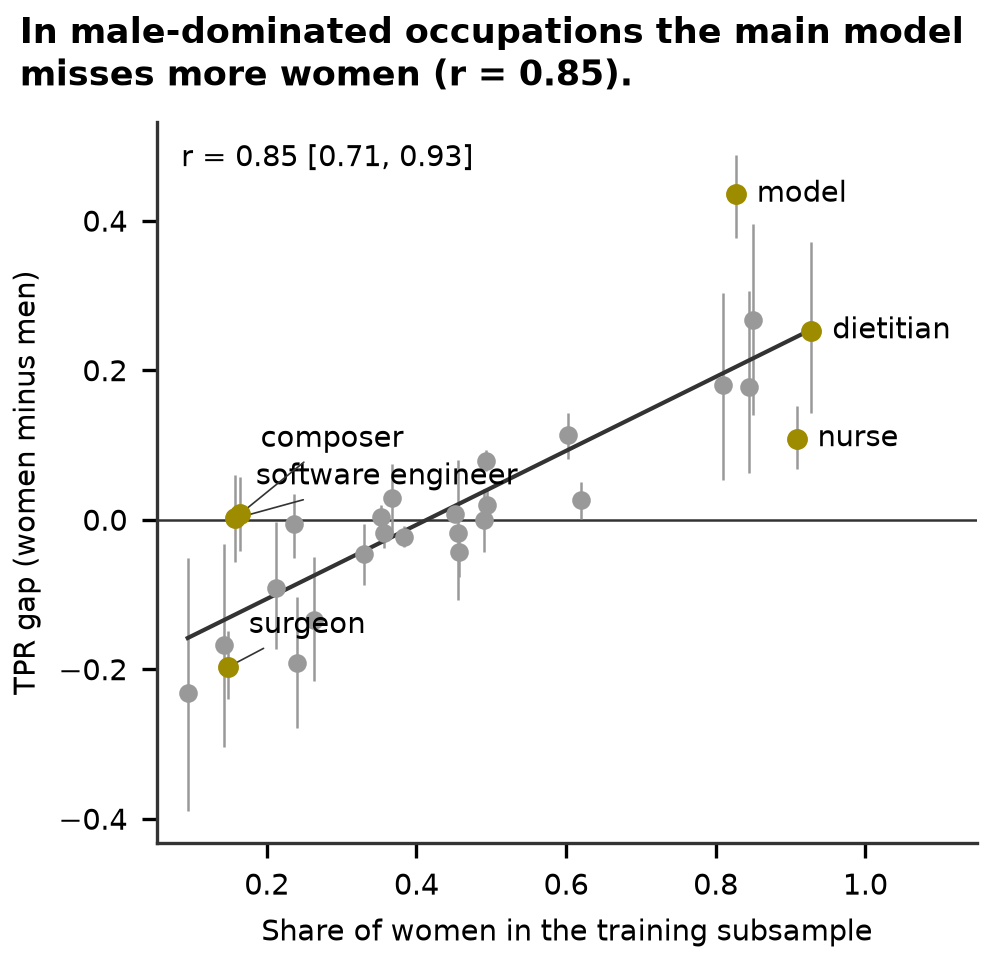
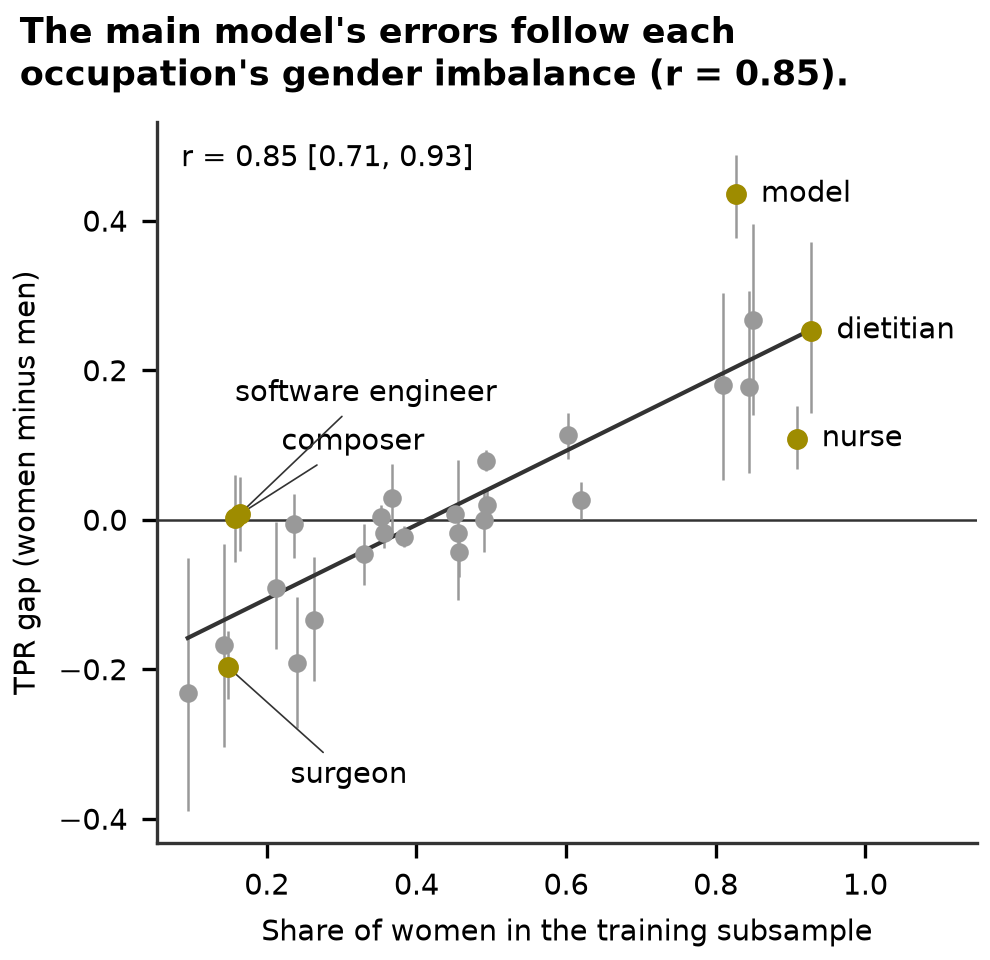
feat: F1 labels go to the nearest clear spot, away from the fitted line, error bars, dots and each other; regenerate F1 and its deuteranopia check

diff --git a/scripts/figure_f1.py b/scripts/figure_f1.py
@@ -3,6 +3,7 @@
 import json
 from pathlib import Path
 
+import matplotlib.text
 import numpy as np
 
 from hiring_bias_xai import plotting
@@ -10,46 +11,93 @@ from hiring_bias_xai.config import RESULTS_DIR
 
 HEIGHT_INCHES = 3.2
 DARK = "#333333"
-LABEL_DX_PT = 5
-LABEL_GAP_PT = 9
-MALE_RAISE_PT = 10
+LABEL_RADII_PT = (6, 12, 20, 30, 42, 56)
+LEADER_FROM_PT = 9
+DISTANCE_COST = 0.05
+DOT_COST, DOT_PAD_PX, LINE_PAD_PX = 50, 4, 2
+BAR_COST, FIT_COST, ZERO_COST = 10, 40, 5
+TAKEN_COST = OUTSIDE_COST = 1000
 
 
 def _read(results_dir: Path, name: str):
     return json.loads((results_dir / name).read_text())
 
 
-def _label(fig, ax, points: dict, sides: dict) -> None:
-    """Label the showcase occupations to the right of their dots, with no two labels overlapping.
+def _inside(box, points, pad=0.0) -> int:
+    """How many of the (n, 2) pixel points lie inside the box (x0, y0, x1, y1), grown by `pad`."""
+    x, y = points[:, 0], points[:, 1]
+    return int(
+        ((x > box[0] - pad) & (x < box[2] + pad) & (y > box[1] - pad) & (y < box[3] + pad)).sum()
+    )
 
-    Male-dominated labels start above their dots, clear of the zero line and the grey dots near
-    it. Within a side, labels are pushed up until they are `LABEL_GAP_PT` apart; a label that is
-    not level with its dot gets a leader line.
+
+def _overlap(a, b) -> bool:
+    return a[0] < b[2] and b[0] < a[2] and a[1] < b[3] and b[1] < a[3]
+
+
+def _label(fig, ax, points: dict, sides: dict, obstacles: dict) -> None:
+    """Label each showcase occupation at the nearest clear spot around its dot.
+
+    Each label is tried at several distances and directions from its dot. The spot with the least
+    overlap with dots, error bars, the fitted line, the zero line, earlier labels and the axes
+    edge wins; ties go to the nearest. A label away from its dot gets a leader line.
+    `obstacles` maps "dots" to an (n, 2) array and "bars", "fit" and "zero" to lists of (n, 2)
+    arrays sampled along them, all in data coordinates.
     """
-    fig.canvas.draw()  # fixes the axes position so data units can be converted to points
-    points_per_pixel = 72 / fig.dpi
-    placed = {}
-    for side in ("male_dominated", "female_dominated"):
-        names = sorted((n for n in sides if sides[n] == side), key=lambda n: points[n][1])
-        label_y = -np.inf
-        for name in names:
-            dot_y = ax.transData.transform(points[name])[1] * points_per_pixel
-            label_y = max(
-                dot_y + (MALE_RAISE_PT if side == "male_dominated" else 0), label_y + LABEL_GAP_PT
-            )
-            placed[name] = label_y - dot_y
-    for name, raise_pt in placed.items():
-        ax.annotate(
+    fig.canvas.draw()  # fixes the axes position and gives the text renderer
+    renderer = fig.canvas.get_renderer()
+    pixels_per_point = fig.dpi / 72
+    to_px = ax.transData.transform
+    dots = to_px(obstacles["dots"])
+    lines = [
+        (cost, to_px(line))
+        for kind, cost in (("bars", BAR_COST), ("fit", FIT_COST), ("zero", ZERO_COST))
+        for line in obstacles[kind]
+    ]
+    axes = ax.get_window_extent(renderer)
+    taken, offsets = [], {}
+    for name in (n for n in points if n in sides):
+        text = ax.text(0, 0, name.replace("_", " "))
+        extent = matplotlib.text.Text.get_window_extent(text, renderer)
+        text.remove()
+        dot = to_px([points[name]])[0]
+        best = None
+        for radius in LABEL_RADII_PT:
+            for angle in np.radians(np.arange(0, 360, 30)):
+                dx, dy = radius * np.cos(angle), radius * np.sin(angle)
+                left = dot[0] + dx * pixels_per_point
+                if dx < 0:
+                    left -= extent.width
+                bottom = dot[1] + dy * pixels_per_point - extent.height / 2
+                box = (left, bottom, left + extent.width, bottom + extent.height)
+                cost = radius * DISTANCE_COST + DOT_COST * _inside(box, dots, DOT_PAD_PX)
+                cost += sum(c for c, line in lines if _inside(box, line, LINE_PAD_PX))
+                if radius > LEADER_FROM_PT:  # a leader line must not run through another dot
+                    end = (box[0] if dx >= 0 else box[2], (box[1] + box[3]) / 2)
+                    along = dot + np.linspace(0, 1, 30)[:, None] * (end - dot)
+                    gaps = np.linalg.norm(dots[:, None, :] - along[None], axis=2).min(axis=1)
+                    cost += DOT_COST * int(((gaps < DOT_PAD_PX) & (gaps > 0.5)).sum())
+                cost += TAKEN_COST * sum(_overlap(box, other) for other in taken)
+                cost += OUTSIDE_COST * (
+                    box[0] < axes.x0 or box[2] > axes.x1 or box[1] < axes.y0 or box[3] > axes.y1
+                )
+                if best is None or cost < best[0]:
+                    best = (cost, (dx, dy), box)
+        taken.append(best[2])
+        offsets[name] = best[1]
+    for name, (dx, dy) in offsets.items():
+        label = ax.annotate(
             name.replace("_", " "),
             points[name],
-            xytext=(LABEL_DX_PT, raise_pt),
+            xytext=(dx, dy),
             textcoords="offset points",
-            ha="left",
+            ha="left" if dx >= 0 else "right",
             va="center",
             arrowprops={"arrowstyle": "-", "lw": 0.4, "color": DARK, "shrinkA": 0, "shrinkB": 2}
-            if raise_pt
+            if np.hypot(dx, dy) > LEADER_FROM_PT
             else None,
         )
+        label.set_in_layout(False)  # a label must not move the axes it was placed against
 
 
 def build(results_dir: Path):
@@ -74,12 +122,8 @@ def build(results_dir: Path):
     ax.scatter(x[is_showcase], gap[is_showcase], s=16, color=plotting.HIGHLIGHT, zorder=4)
     ax.axhline(0, color=DARK, lw=0.6, zorder=1)
     slope, intercept = np.polyfit(x, gap, 1)
-    ax.plot(
-        [x.min(), x.max()],
-        [intercept + slope * x.min(), intercept + slope * x.max()],
-        color=DARK,
-        lw=1,
-    )
+    fit_x = np.linspace(x.min(), x.max(), 200)
+    ax.plot(fit_x[[0, -1]], intercept + slope * fit_x[[0, -1]], color=DARK, lw=1)
     pearson = _read(results_dir, "gap_statistics.json")["main_model"]["pearson"]
     r = pearson["value"]
     fig.suptitle(
@@ -100,7 +144,17 @@ def build(results_dir: Path):
     ax.set_ylabel("TPR gap (women minus men)")
     ax.set_xlim(right=1.15)  # room for the labels of the female-dominated showcase occupations
     ax.set_xticks([0.2, 0.4, 0.6, 0.8, 1.0])
-    _label(fig, ax, {name: (xi, yi) for name, xi, yi in zip(names, x, gap, strict=True)}, labelled)
+    obstacles = {
+        "dots": np.column_stack([x, gap]),
+        "bars": [
+            np.column_stack([np.full(20, xi), np.linspace(lo, hi, 20)])
+            for xi, lo, hi in zip(x, low, high, strict=True)
+        ],
+        "fit": [np.column_stack([fit_x, intercept + slope * fit_x])],
+        "zero": [np.column_stack([fit_x, np.zeros(len(fit_x))])],
+    }
+    points = {name: (xi, yi) for name, xi, yi in zip(names, x, gap, strict=True)}
+    _label(fig, ax, points, labelled, obstacles)
     return fig
 
 

diff --git a/tests/test_figure_f1.py b/tests/test_figure_f1.py
@@ -178,9 +178,6 @@ def test_labels_of_showcase_dots_that_nearly_coincide_do_not_overlap(results):
         ]
         assert len(boxes) == 2
         assert not boxes[0].overlaps(boxes[1])
-        # o2's dot is the lower one, so its label stays the lower one and the leaders do not cross.
-        labels = {t.get_text(): t for t in fig.axes[0].texts}
-        assert labels["o2"].xyann[1] < labels["o1"].xyann[1]
     finally:
         plt.close(fig)
 
@@ -256,37 +253,6 @@ def test_the_wrapped_title_fits_inside_the_figure(figure):
     figure.canvas.draw()
     box = figure._suptitle.get_window_extent(figure.canvas.get_renderer())
     assert 0 <= box.x0 and box.x1 <= figure.bbox.x1
-
-
-def test_male_dominated_labels_start_above_their_dots_and_only_raised_labels_have_leaders(figure):
-    (ax,) = figure.axes
-    labels = {t.get_text(): t for t in ax.texts if hasattr(t, "xyann")}
-    for name in ("o1", "o2", "o3"):
-        assert labels[name].xyann[1] > 0
-    for name in ("o6", "o7", "o8"):
-        assert labels[name].xyann[1] >= 0
-    # The lowest female-dominated dot sits level with its label; the others are pushed up.
-    assert labels["o6"].xyann[1] == 0
-    assert labels["o6"].arrow_patch is None
-    assert all((t.xyann[1] != 0) == (t.arrow_patch is not None) for t in labels.values())
-
-
-def test_underscores_in_occupation_names_become_spaces_in_the_labels(results):
-    for name in ("metrics_deberta.json", "gap_statistics.json", "showcase_occupations.json"):
-        path = results / name
-        path.write_text(path.read_text().replace('"o1"', '"software_engineer"'))
-    fig = _render(results)
-    try:
-        assert "software engineer" in [t.get_text() for t in fig.axes[0].texts]
-    finally:
-        plt.close(fig)
-
-
-def test_the_axes_are_labelled_with_the_quantities_and_ticked_in_shares(figure):
-    (ax,) = figure.axes
-    assert ax.get_xlabel() == "Share of women in the training subsample"
-    assert ax.get_ylabel() == "TPR gap (women minus men)"
-    assert list(ax.get_xticks()) == [0.2, 0.4, 0.6, 0.8, 1.0]
 
 
 def _label_boxes(fig):
